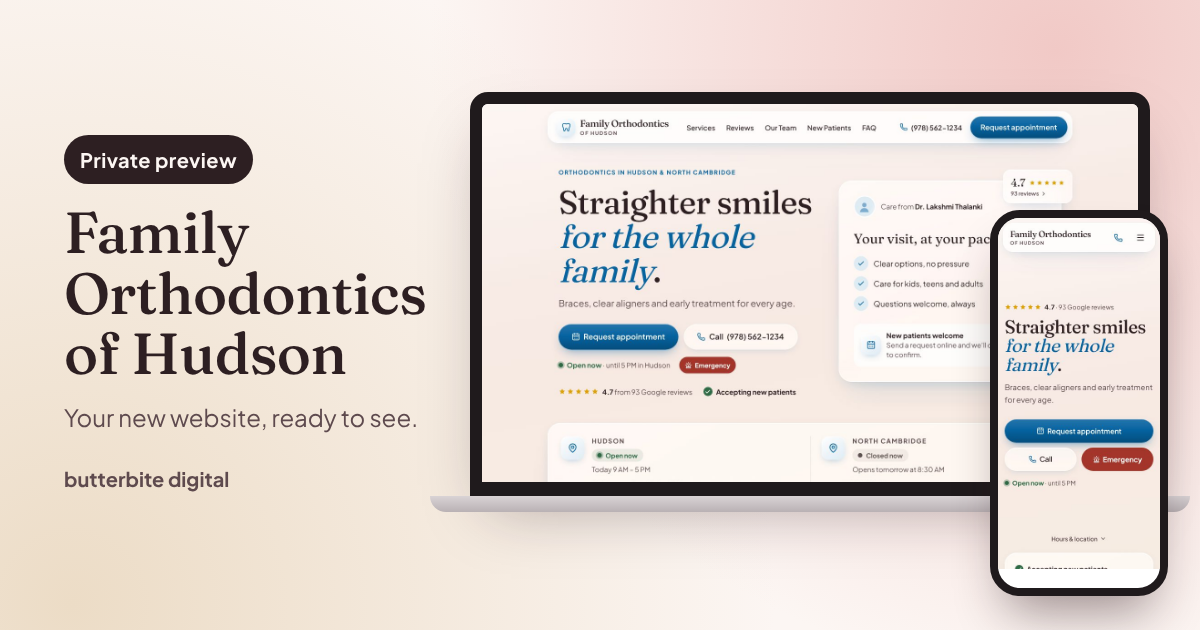
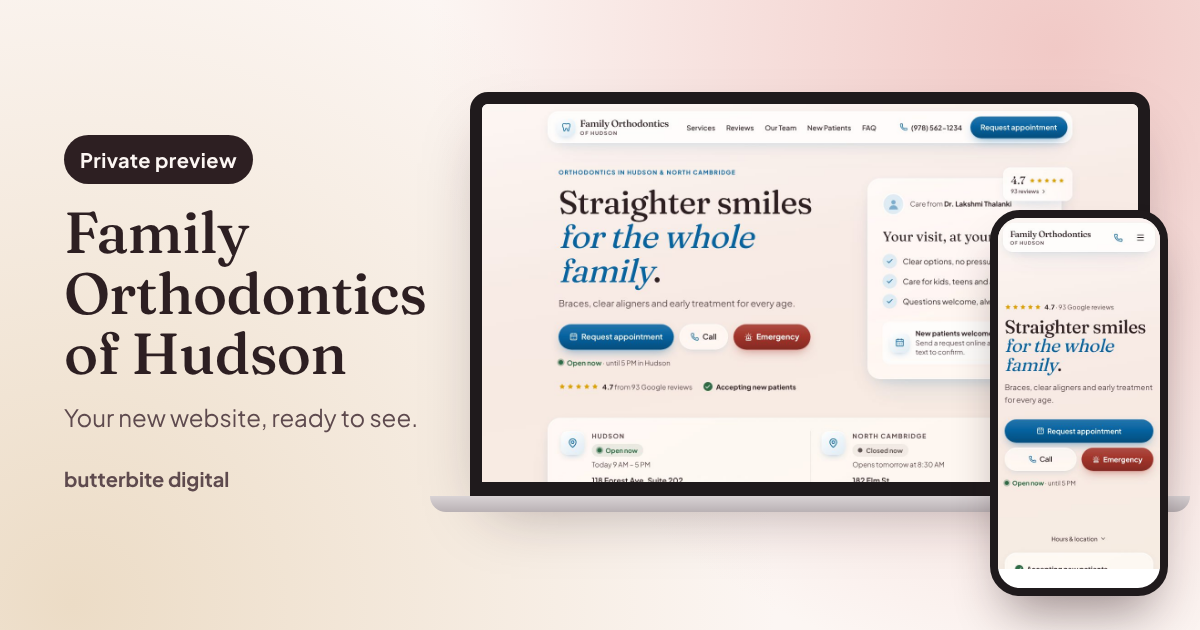
Emergency joins Request and Call as a matching red button on every screen; a refresh starts at the top
- .btn-danger: same shape, height and shading as the main buttons
- Desktop: Request, Call and Emergency in one row (Call drops the number; it's in the top bar)
- Hero text column a little wider on desktop so the three buttons fit
- Reload: no restored scroll spot or #section jump; shared #links still work

Claude-Session: https://claude.ai/code/session_01Dz74CLANB8ZvbaNPtyytFn

diff --git a/components/sections/Hero.tsx b/components/sections/Hero.tsx
@@ -21,7 +21,7 @@ export function Hero({ office }: { office: OfficeConfig }) {
       <div className="orb-local" style={{ ["--c" as string]: "var(--orb-1)", width: 520, height: 520, top: -80, left: "-12%" }} />
       <div className="orb-local" style={{ ["--c" as string]: "var(--orb-3)", width: 460, height: 460, top: 120, right: "-6%" }} />
 
-      <div className="hero-main mx-auto grid w-full max-w-6xl items-center gap-12 px-4 sm:px-6 lg:grid-cols-[1.08fr_0.92fr] lg:gap-10">
+      <div className="hero-main mx-auto grid w-full max-w-6xl items-center gap-12 px-4 sm:px-6 lg:grid-cols-[1.2fr_0.8fr] lg:gap-10">
         <div>
           {/* Phones: the rating, the strongest trust signal, sits above the headline so it's always on the first screen. */}
           {rating && (
@@ -47,16 +47,17 @@ export function Hero({ office }: { office: OfficeConfig }) {
           </p>
 
           {/* Phones: Request on its own full-width row, then Call and Emergency side by side, same size.
-              Bigger screens: Request and Call in one row, Emergency next to the status below. */}
-          <div id="hero-actions" className="mt-6 grid grid-cols-2 gap-3 sm:mt-8 sm:flex">
-            <BookButton size="lg" className="col-span-2 max-sm:px-4">
+              Bigger screens: all three in one row, same height. */}
+          <div id="hero-actions" className="mt-6 grid grid-cols-2 gap-3 sm:mt-8 sm:flex sm:flex-wrap">
+            <BookButton size="lg" className="col-span-2 max-sm:px-4 lg:px-6">
               Request appointment
             </BookButton>
-            <a href={telHref(contact.phone)} className="btn btn-glass btn-lg max-sm:min-w-0 max-sm:px-4">
+            <a href={telHref(contact.phone)} className="btn btn-glass btn-lg max-sm:min-w-0 max-sm:px-4 lg:px-6">
               <Phone size={18} aria-hidden="true" className="text-accent" />
-              Call<span className="max-sm:sr-only"> {contact.phone}</span>
+              {/* The number shows on tablets; phones and computers (number in the top bar) just say Call. */}
+              Call<span className="max-sm:sr-only lg:sr-only"> {contact.phone}</span>
             </a>
-            <EmergencyButton label="Emergency" size="hero" className="min-w-0 sm:hidden" />
+            <EmergencyButton label="Emergency" size="lg" className="min-w-0 max-sm:px-4 lg:px-6" />
           </div>
 
           {/* Live open/closed status (the top reason people open a dentist's site) and the emergency pop-up. */}
@@ -65,8 +66,6 @@ export function Hero({ office }: { office: OfficeConfig }) {
               timezone={office.timezone}
               offices={office.locations}
             />
-            {/* Bigger screens (phones have it next to Call above). Always on the first screen. */}
-            <EmergencyButton label="Emergency" size="sm" className="max-sm:hidden" />
           </div>
 
           {/* Trust strip: each item jumps to the section that backs it up. */}

diff --git a/components/ui/EmergencyButton.tsx b/components/ui/EmergencyButton.tsx
@@ -2,8 +2,8 @@ import { Siren } from "lucide-react";
 import { cx } from "@/lib/format";
 
 /**
- * The one way the site says "emergency": a solid red button that opens the emergency pop-up
- * (components/sections/EmergencyDialog.tsx). Red is kept for this alone.
+ * The one way the site says "emergency": a red button (same shape and shading as the main buttons)
+ * that opens the emergency pop-up (components/sections/EmergencyDialog.tsx). Red is kept for this alone.
  */
 export function EmergencyButton({
   label = "Dental emergency?",
@@ -12,25 +12,14 @@ export function EmergencyButton({
   onClick,
 }: {
   label?: string;
-  size?: "sm" | "md" | "lg" | "hero";
+  /** `lg` matches the hero's big Request and Call buttons. */
+  size?: "md" | "lg";
   className?: string;
   onClick?: () => void;
 }) {
   return (
-    <a
-      href="#emergency"
-      onClick={onClick}
-      className={cx(
-        "inline-flex shrink-0 items-center justify-center gap-1.5 whitespace-nowrap rounded-full bg-danger font-bold text-white shadow-sm transition-[filter] hover:brightness-110",
-        size === "sm" && "min-h-9 px-3 text-sm",
-        size === "md" && "min-h-10 px-4 text-[0.95rem]",
-        size === "lg" && "min-h-12 px-5 text-lg",
-        // Same height and type as the hero's other big buttons (.btn-lg).
-        size === "hero" && "min-h-14 px-5 text-[1.0625rem]",
-        className,
-      )}
-    >
-      <Siren size={size === "lg" || size === "hero" ? 18 : 16} aria-hidden="true" className="shrink-0" />
+    <a href="#emergency" onClick={onClick} className={cx("btn btn-danger shrink-0 font-bold", size === "lg" && "btn-lg", className)}>
+      <Siren size={18} aria-hidden="true" className="shrink-0" />
       {label}
     </a>
   );

diff --git a/app/layout.tsx b/app/layout.tsx
@@ -104,7 +104,9 @@ export const viewport: Viewport = {
  * Runs before paint: marks JS as available (enables scroll-reveal) and lets
  * sales demos preview other presets with ?theme=sage-blue and other designs with ?design=honey (no rebuild needed).
  */
-const bootScript = `(function(){var d=document.documentElement;d.classList.add('js');try{var q=new URLSearchParams(location.search),t=q.get('theme'),g=q.get('design');if(t&&${JSON.stringify(
+// A refresh always starts at the top: no restored scroll spot, no jump back to a #section from an
+// earlier tap. (A shared link with #reviews etc. still opens at that section the first time.)
+const bootScript = `(function(){var d=document.documentElement;d.classList.add('js');try{var n=performance.getEntriesByType('navigation')[0];if(n&&n.type==='reload'){history.scrollRestoration='manual';if(location.hash)history.replaceState(null,'',location.pathname+location.search);scrollTo(0,0);addEventListener('load',function(){scrollTo(0,0)});}}catch(e){}try{var q=new URLSearchParams(location.search),t=q.get('theme'),g=q.get('design');if(t&&${JSON.stringify(
   THEME_PRESETS,
 )}.indexOf(t)>-1){d.setAttribute('data-theme',t);d.style.cssText='';}if(g&&${JSON.stringify(DESIGNS)}.indexOf(g)>-1){d.setAttribute('data-design',g);d.style.cssText='';}}catch(e){}})();`;
 

diff --git a/app/globals.css b/app/globals.css
@@ -327,6 +327,20 @@
       inset 0 1px 0 rgb(255 255 255 / 0.9),
       0 6px 18px -10px rgb(var(--shadow-tint) / 0.3);
   }
+  /* Emergency only (components/ui/EmergencyButton.tsx): same shape and shading as .btn-primary, in red. */
+  .btn-danger {
+    color: #fff;
+    background: linear-gradient(180deg, color-mix(in srgb, var(--danger) 88%, white), var(--danger) 45%, color-mix(in srgb, var(--danger) 82%, black));
+    box-shadow:
+      inset 0 1px 0 rgb(255 255 255 / 0.28),
+      0 1px 2px color-mix(in srgb, var(--danger) 30%, transparent),
+      0 10px 24px -10px color-mix(in srgb, var(--danger) 65%, transparent);
+  }
+  @media (hover: hover) {
+    .btn-danger:hover {
+      transform: translateY(-1px);
+    }
+  }
   .btn-lg {
     min-height: 56px;
     padding: 0 1.8rem;
